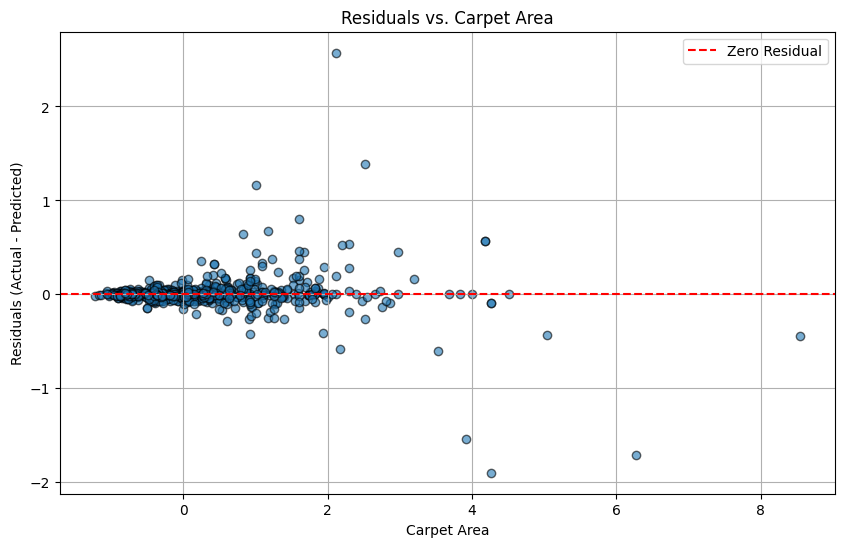
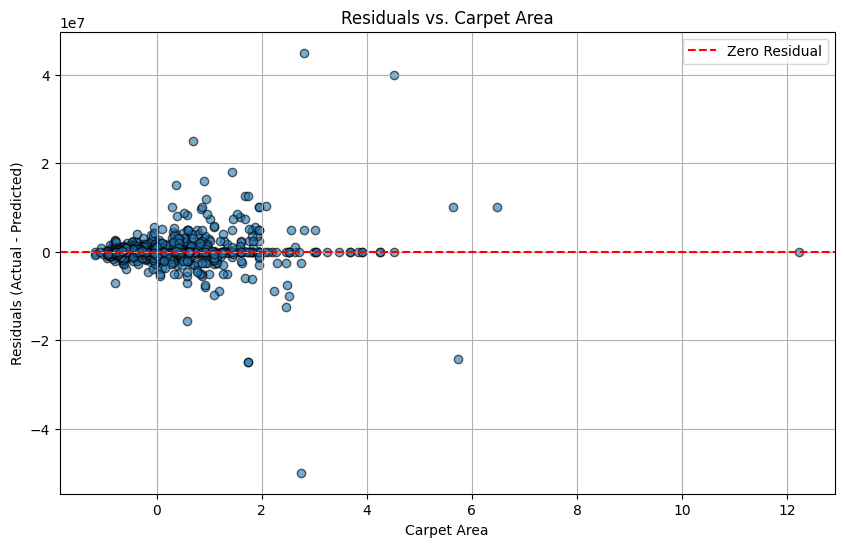
Q4/2 Done

diff --git a/A4/Q4/2.py b/A4/Q4/2.py
@@ -6,21 +6,24 @@ import os
 
 os.makedirs("Plots", exist_ok=True)
 
-# train_data = pd.read_csv('../dataset/train.csv')
-train_data = pd.read_csv('../processed_train_data.csv')
+train_data = pd.read_csv('../Q2/X_train_final_with_categories.csv')
+test_data = pd.read_csv('../Q2/X_test_final_with_categories.csv')
 
-X = train_data.drop(columns=['Price'])
-y = train_data['Price']
-X_train, X_test, y_train, y_test = train_test_split(X, y, test_size=0.2, random_state=42)
+X_train = train_data.drop(columns=['Price', 'Price_Category'])
+y_train = train_data['Price']
+
+X_test = test_data.drop(columns=['Price', 'Price_Category'])
+y_test = test_data['Price']
 
 # Training Decision Tree on processed data using the Best Hyperparameters found in 2b
-# Do not need to prune the tree as `ccp_alpha` = 0 is the best hyperparameter
+# `ccp_alpha` = 31941543.737055868 is the best hyperparameter
 model = DecisionTreeRegressor(
     random_state=42,
-    max_depth=10,
+    max_depth=None,
     max_features=None,
-    min_samples_leaf=2,
-    min_samples_split=2
+    min_samples_leaf=1,
+    min_samples_split=2,
+    ccp_alpha=31941543.737055868
 )
 model.fit(X_train, y_train)
 
